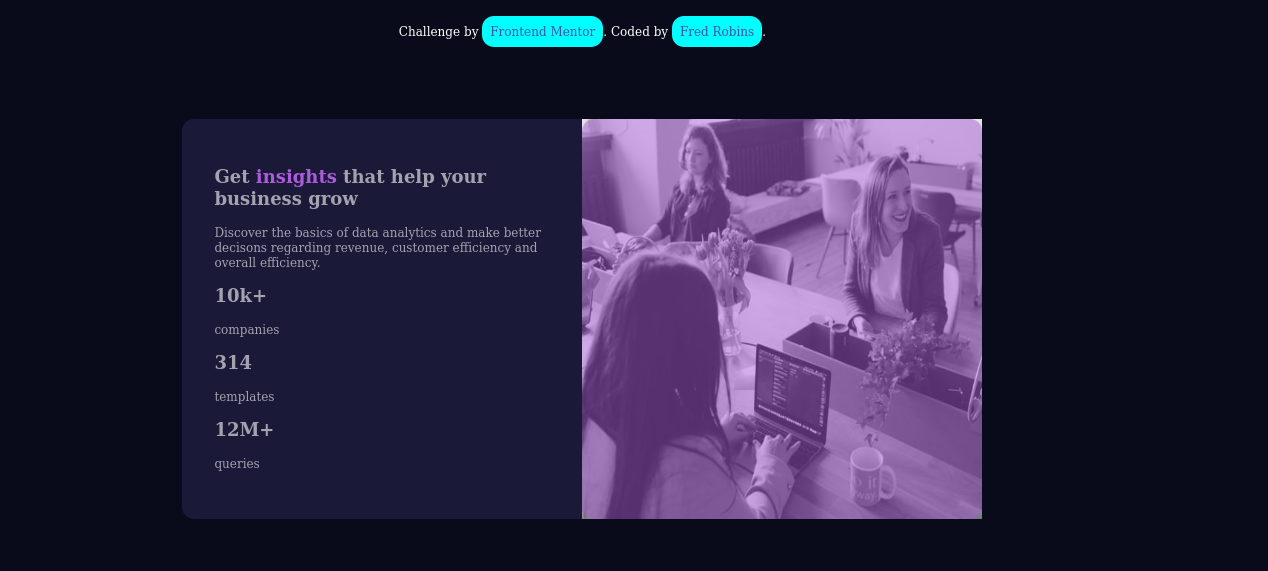
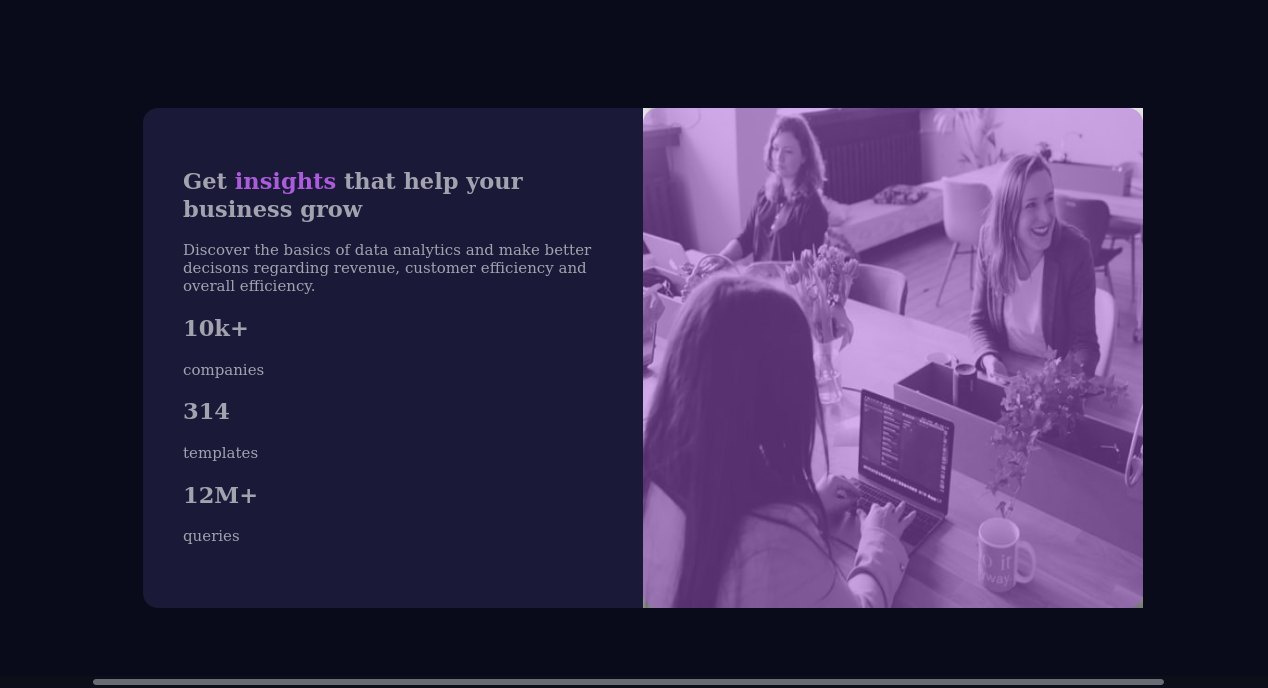
Add files via upload

diff --git a/index.html b/index.html
@@ -10,30 +10,29 @@
     <title>Frontend Mentor | Stats preview card component</title>
 </head>
 <body>
-  <div class="attribution">
-    Challenge by <a href="https://www.frontendmentor.io?ref=challenge" target="_blank">Frontend Mentor</a>. 
-    Coded by <a href="#">Fred Robins</a>.
-  <section>
-    <div class="overlay">
-      
-    </div>
-    <div class="section-image" id="section-image">
-      <img src="images/image-header-desktop.jpg" alt="Image loading....">
-    </div>
-    <div class="data" id="data">
-      <h1>Get <span>insights</span> that help your business grow</h1>
-      <p>Discover the basics of data analytics and make better decisons regarding revenue, customer efficiency and overall efficiency.</p>
-        <div class="section-stats">
-          <h1>10k+</h1>
-          <p>companies</p>
-          <h1>314</h1>
-          <p>templates</p>
-          <h1>12M+</h1>
-          <p>queries</p>
-        </div>
-    </div>
-  </section>
-  
+ 
+  <main>
+    <section>
+      <div class="overlay">
+        
+      </div>
+      <div class="section-image" id="section-image">
+        <img src="images/image-header-desktop.jpg" alt="Image loading....">
+      </div>
+      <div class="data" id="data">
+        <h1>Get <span>insights</span> that help your business grow</h1>
+        <p>Discover the basics of data analytics and make better decisons regarding revenue, customer efficiency and overall efficiency.</p>
+          <div class="section-stats">
+            <h1>10k+</h1>
+            <p>companies</p>
+            <h1>314</h1>
+            <p>templates</p>
+            <h1>12M+</h1>
+            <p>queries</p>
+          </div>
+      </div>
+    </section>
+  </main>
   </div>
 </body>
 </html>

diff --git a/style.css b/style.css
@@ -3,6 +3,7 @@
 }
 
 body {
+
     background-color: hsl(233, 47%, 7%); 
     font-size: 15px;
     width: 1440px;
@@ -22,6 +23,12 @@ section {
     height: 500px;
     border-radius: 15px;
 } 
+
+main {
+    display: flex;
+    justify-content: center;
+    align-items: center;
+}
 
 #data {
     display: block;
@@ -71,26 +78,7 @@ h1, p {
     z-index: 10;
     border-radius: inherit;
 }
-.attribution { 
-    font-size: 15px; 
-    text-align: center;
-    color: #fff;
-    margin: 30px;
-}
-.attribution a { 
-    color: hsl(228, 45%, 44%);
-    text-decoration: none;
-    padding: 10px 10px;
-    background-color: cyan;
-    border-radius: 15px;
-    transition: 0.8s;
-}
 
-.attribution a:hover {
-    background-color: #0ba;
-    color: inherit;
-    transition: 0.8s;
-}
 @media only screen and (max-width:550px) {
     body {
         max-width: 550px;
